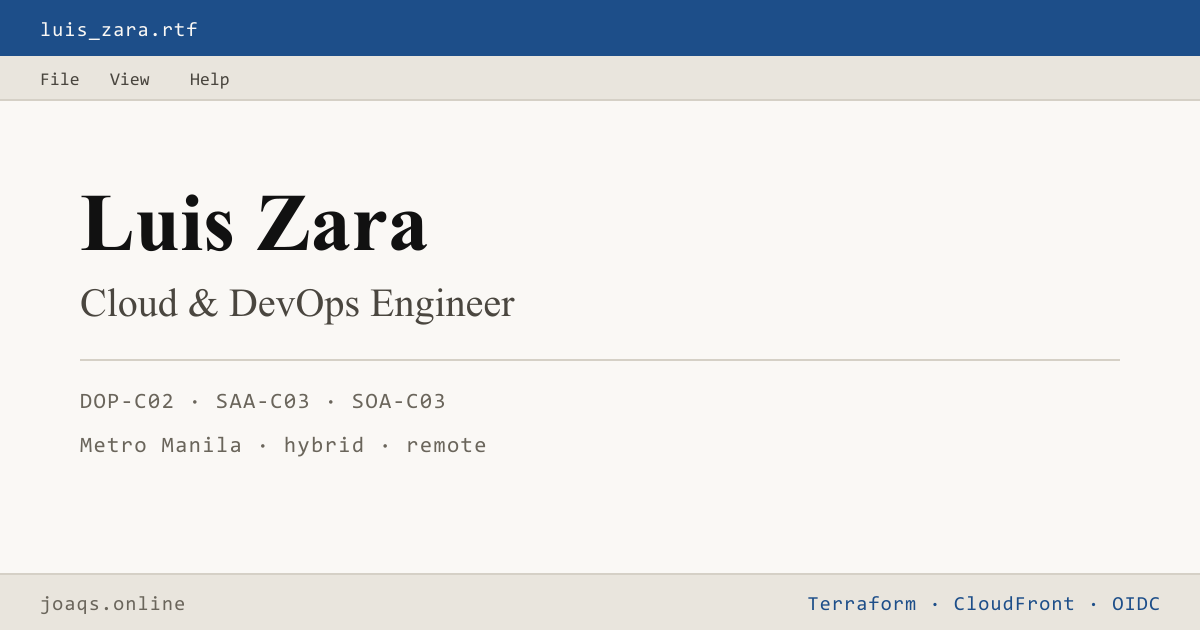
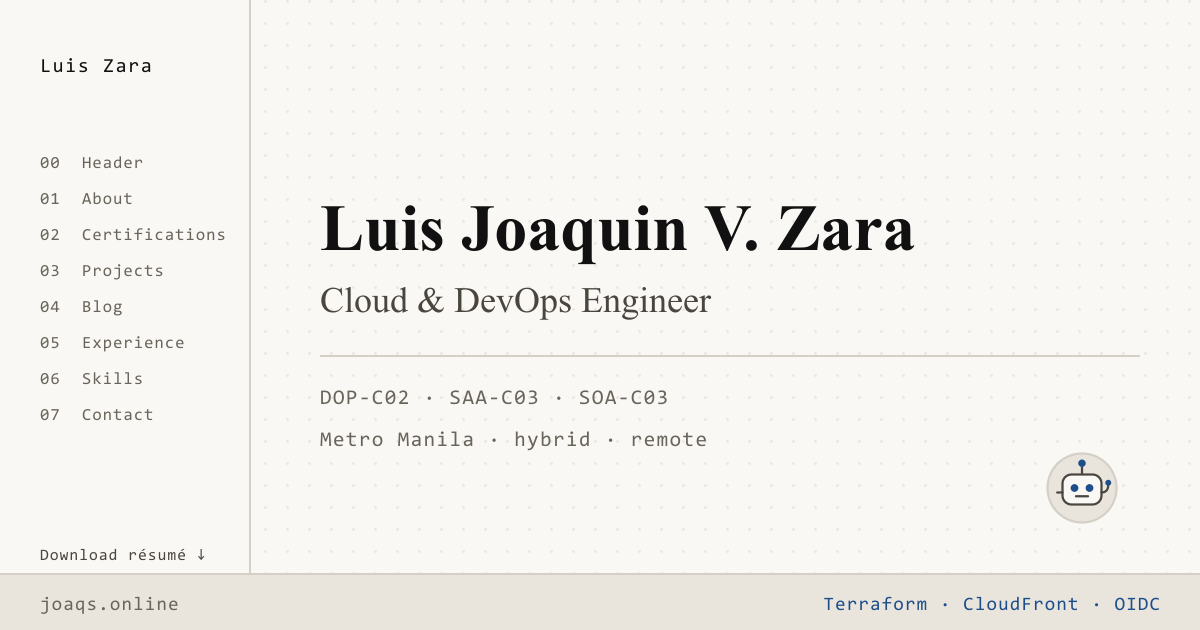
Update website thumbnail

diff --git a/DECISIONS.md b/DECISIONS.md
@@ -870,6 +870,40 @@ Three details worth keeping:
 
 ---
 
+### 59. The preview card was showing a design deleted three revisions ago (2026-09-01)
+Luis noticed the link preview still looked like the old site. It did: `og.png` was drawn with a
+`luis_zara.rtf` title bar and a File/View/Help menu — chrome removed by #46, #47 and #51. Every
+link pasted into LinkedIn or an application since then advertised a site that no longer existed,
+and **nothing inside the repo could show that**. A preview card is the one asset whose staleness is
+only visible from outside.
+
+Redrawn as the current page: the navigation panel with its numbered sections, the dotted ground,
+the masthead, the status bar, and the assistant sitting where it actually sits. Two rules now stop
+it drifting again:
+
+- **Nothing on the card is typed twice.** Name, role, certifications and the section list come from
+  `profile.ts` and `sections.ts`, the same modules the page renders, and the domain from
+  `astro.config.mjs` (#25). The old card hard-coded three certification codes — a fourth would have
+  left a small public lie on every shared link that no test could catch.
+- Reading live data immediately found the bug that hard-coding hid: `profile.role` is
+  "Cloud & DevOps Engineer", and a bare ampersand is an **XML parse error**, not a rendering quirk.
+  The generator now escapes every interpolated value rather than the one that happened to break.
+
+**And a second fault underneath it, which mattered more.** `site.yml` invalidated only `*.html`, on
+the documented reasoning that HTML was the only thing at a stable path. That was true when written
+and stopped being true as `public/` filled up: `og.png`, `resume.pdf`, `favicon.svg`, the fonts,
+the certification emblems and the capstone images are all stable URLs. S3 objects are uploaded with
+no `Cache-Control`, so CloudFront applies the CachingOptimized default of **24 hours** — meaning a
+replaced OG card or an updated résumé kept serving the old bytes for a day after a green deploy,
+with nothing anywhere reporting a problem. The invalidation now covers everything not under
+`_astro/`, which is exactly the set that is not content-hashed.
+
+**The part no deploy can fix:** LinkedIn, Facebook and Slack cache preview images on their own side
+and will keep showing the old card until their scraper re-fetches. That has to be forced by hand
+from each platform's inspector. Worth knowing before concluding a deploy did not work.
+
+---
+
 ## Deferred, on the record
 
 - Résumé-source-to-PDF pipeline in CI (#37)
